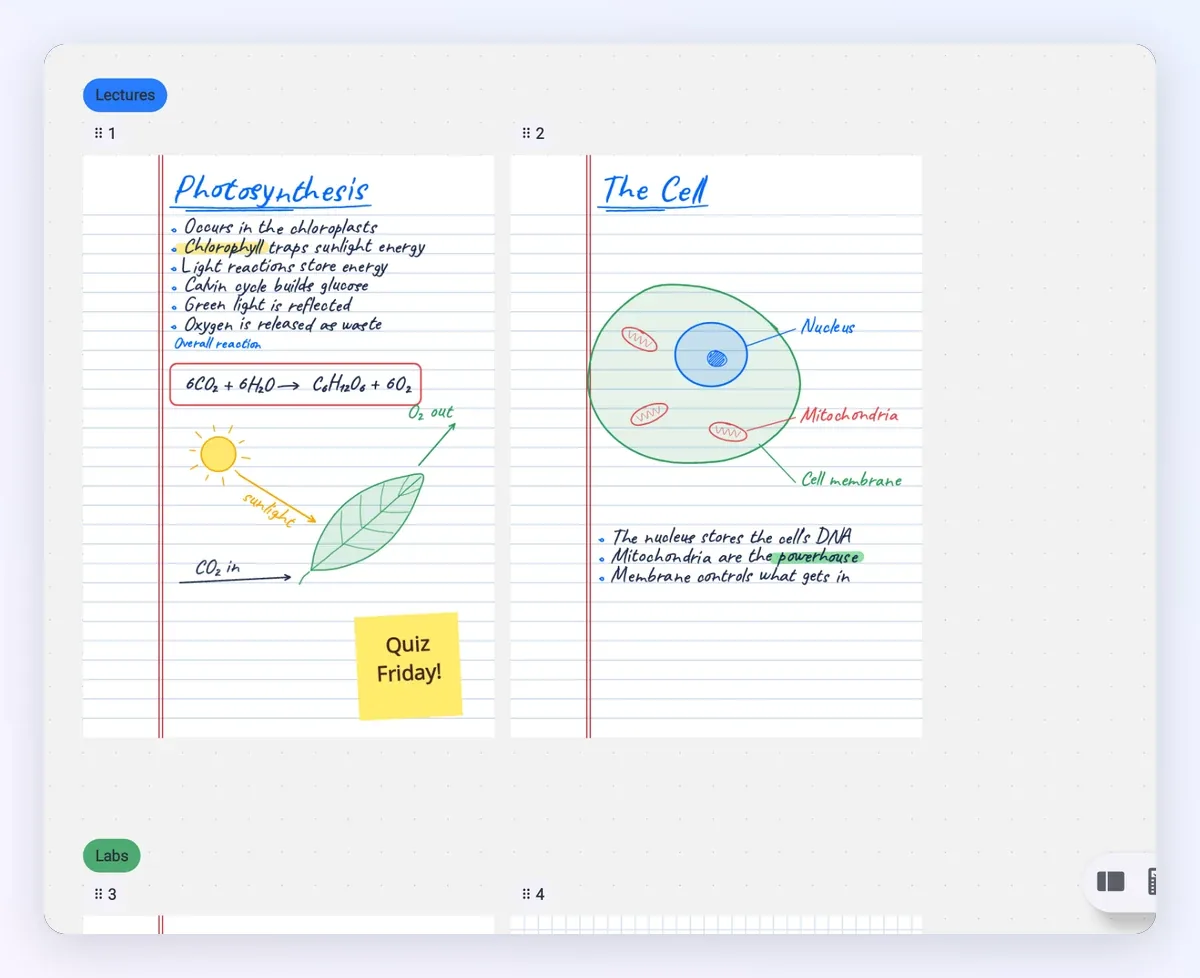
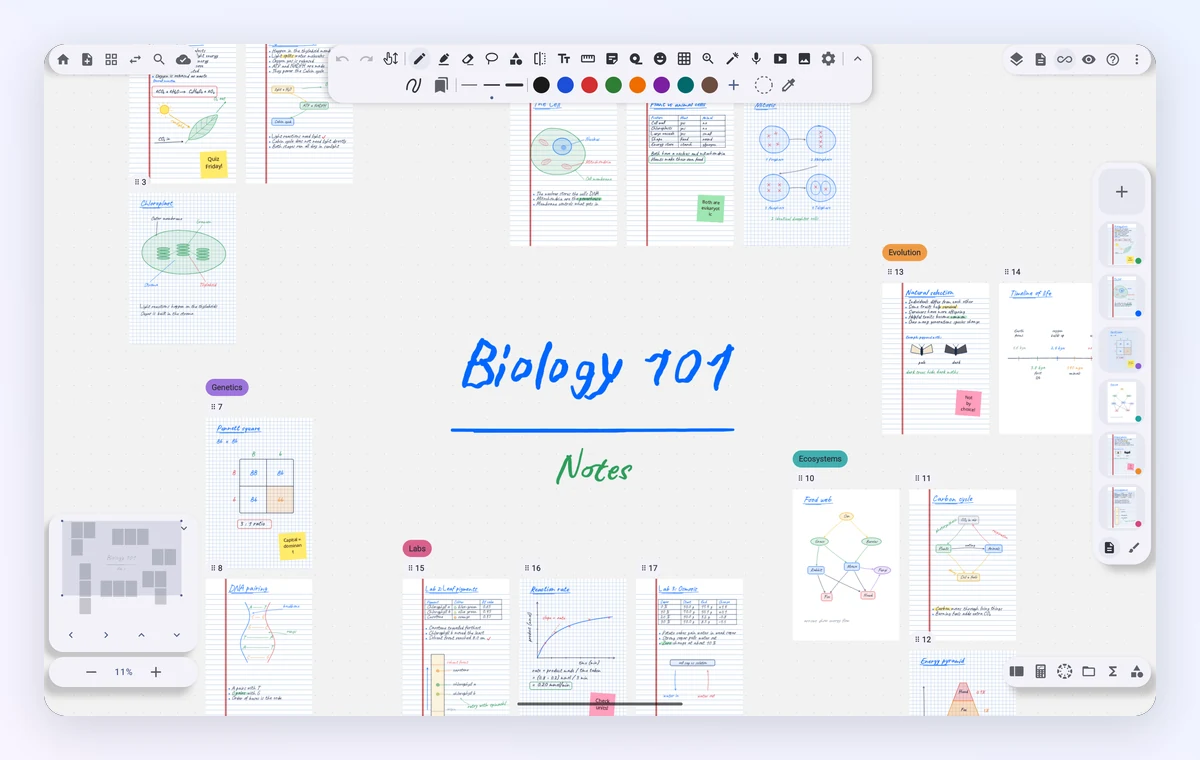
README: alpha notice, download check, FAQ, Canvas and cluster images

diff --git a/README.md b/README.md
@@ -6,21 +6,22 @@
 
 **Handwriting notes for Android tablets. Pages when you want order, one infinite canvas when you want room.**
 
+> **Alpha test builds.** Notevine is still in testing, so expect rough edges. The public beta starts with beta 0.1.0.
+
 <a href="https://github.com/BBallBoyDaBoss/notevine-releases/releases/latest"><b>Download the latest APK</b></a>
+<br>
+<sub>Android 12 or newer, 64-bit ARM tablet, about 25 MB</sub>
 
 [![Latest release](https://img.shields.io/github/v/release/BBallBoyDaBoss/notevine-releases?include_prereleases&label=latest&color=0166FE)](https://github.com/BBallBoyDaBoss/notevine-releases/releases/latest)
 ![Android 12+](https://img.shields.io/badge/Android-12%2B-0166FE)
 ![Tablets, stylus first](https://img.shields.io/badge/tablets-stylus%20first-0166FE)
 ![No account, no ads](https://img.shields.io/badge/no%20account-no%20ads-0166FE)
-[![Support on Ko-fi](https://img.shields.io/badge/Ko--fi-support-0166FE?logo=kofi&logoColor=white)](https://ko-fi.com/notevine)
 
 <br>
 
 <img src="docs/images/hero.webp" alt="Four handwritten notebook pages: photosynthesis notes, a labelled cell diagram, a lab table and a rate graph" width="100%">
 
 </div>
-
-> These are alpha test builds. The public beta starts with beta 0.1.0.
 
 ## Write by hand, organize like a notebook
 
@@ -58,14 +59,14 @@ Choose from a brush library, then tune width, pressure sensitivity and smoothing
 <tr>
 <td width="42%" valign="top">
 
-### Layers for busy pages
+### Clusters and layers for big subjects
 
-Stack your writing in ink layers. Hide, lock or fade a layer, reorder it, or move a lasso selection onto its own layer.
+Lay pages out in named, coloured clusters, so a whole course fits on one canvas. Stack your writing in ink layers too. Hide, lock or fade a layer, reorder it, or move a lasso selection onto its own layer.
 
 </td>
 <td width="58%">
 
-<img src="docs/images/infinite-clusters.webp" alt="Canvas with sections named Lectures and Labs, each holding pages">
+<img src="docs/images/infinite-clusters.webp" alt="Biology 101 on the infinite canvas, with pages grouped into clusters named Genetics, Labs, Evolution and Ecosystems">
 
 </td>
 </tr>
@@ -76,6 +77,9 @@ Stack your writing in ink layers. Hide, lock or fade a layer, reorder it, or mov
 Turn on **Link to notes** while you record audio. Notevine remembers when you wrote each stroke, text box and shape. Play the recording and your writing traces in as you made it. Tap any linked line to hear what was said at that moment.
 
 ## Math tools in the notebook
+
+<details open>
+<summary>Calculator, equations and symbols</summary>
 
 <table>
 <tr>
@@ -100,7 +104,12 @@ Place equations and figures from built-in libraries, or save your own drawings a
 </tr>
 </table>
 
+</details>
+
 ## Bring your notes with you
+
+<details>
+<summary>Import screens and Canvas LMS</summary>
 
 <table>
 <tr>
@@ -110,10 +119,6 @@ Place equations and figures from built-in libraries, or save your own drawings a
 
 Move notebooks in from Goodnotes, Notability, Notewise, Samsung Notes and OneNote. Choose a backup or a folder. Nothing is copied until you confirm.
 
-### Canvas LMS courses
-
-Link a folder or notebook to a Canvas course, then open the course from there. Notevine submits nothing for you.
-
 </td>
 <td width="58%">
 
@@ -121,7 +126,25 @@ Link a folder or notebook to a Canvas course, then open the course from there. N
 
 </td>
 </tr>
+<tr>
+<td width="42%" valign="top">
+
+### Canvas LMS courses
+
+Link a folder or notebook to a Canvas course, then open the course from there. Notevine submits nothing for you.
+
+</td>
+<td width="58%">
+
+<img src="docs/images/canvas-panel.webp" alt="Canvas panel showing upcoming work and recent announcements">
+
+<img src="docs/images/canvas-tasks.webp" alt="Course dashboard beside a weekly tasks panel with a progress ring and due dates">
+
+</td>
+</tr>
 </table>
+
+</details>
 
 ## Install
 
@@ -132,7 +155,15 @@ Link a folder or notebook to a Canvas course, then open the course from there. N
 
 On Samsung tablets, the setting can be under **Settings, Security and privacy, More security settings, Install unknown apps**. If Auto Blocker stops the install, turn it off under **Settings, Security and privacy, Auto Blocker**. Install the app, then turn Auto Blocker on again.
 
-To check the file, compare its SHA-256 checksum with the one in the release notes.
+### Check your download
+
+Every release lists the APK's SHA-256 checksum in its notes. On a computer, compare it with `certutil -hashfile Notevine-<version>.apk SHA256` (Windows) or `sha256sum Notevine-<version>.apk` (Mac, Linux).
+
+Every Notevine build is signed with the same key. To check the signature, run `apksigner verify --print-certs` on the APK. The certificate SHA-256 digest should be:
+
+```
[1 lines of base64/hex data omitted]
+```
 
 ## Updates
 
@@ -150,6 +181,20 @@ You can turn off the daily check under **Settings, Help and about**. The app rea
 - A 64-bit ARM tablet.
 - A stylus for the best experience. Finger input is available too.
 
+## Questions
+
+**Is it free?** Yes. There is no account, no ad and no paywall in these builds.
+
+**Will my notes survive an update?** Yes. Install over the old version and your notebooks and settings stay.
+
+**Can I put it on a phone or a Chromebook?** It is made for Android tablets with a stylus. Phones are not tested.
+
+**Is the source code available?** No. This repository holds releases and documentation only.
+
+## What's next
+
+The alpha builds lead to a public beta, then a Play Store release. The [changelog](CHANGELOG.md) lists every build so far.
+
 ## Support Notevine
 
 Notevine is a passion project of mine designed to be the best handwritten notes app Android has to offer. I am the only developer. Tips on [Ko-fi](https://ko-fi.com/notevine) help fund its development. Tips don't unlock anything, and you don't need to give one to use the app.
@@ -160,4 +205,8 @@ Notevine has no account, no ads and no analytics. Read the [privacy policy](PRIV
 
 ## Feedback
 
-To report a bug or send an idea, open an [issue](https://github.com/BBallBoyDaBoss/notevine-releases/issues). Reports are public, so leave out private information.
+To report a bug or send an idea, open an [issue](https://github.com/BBallBoyDaBoss/notevine-releases/issues). Reports are public, so leave out private information. To report a security problem privately, read [SECURITY.md](SECURITY.md).
+
+## License
+
+Copyright 2026 Notevine. All rights reserved. The app and its source code are not open source. You may download and use the released builds for personal use. You may not redistribute, modify or reverse engineer them.
